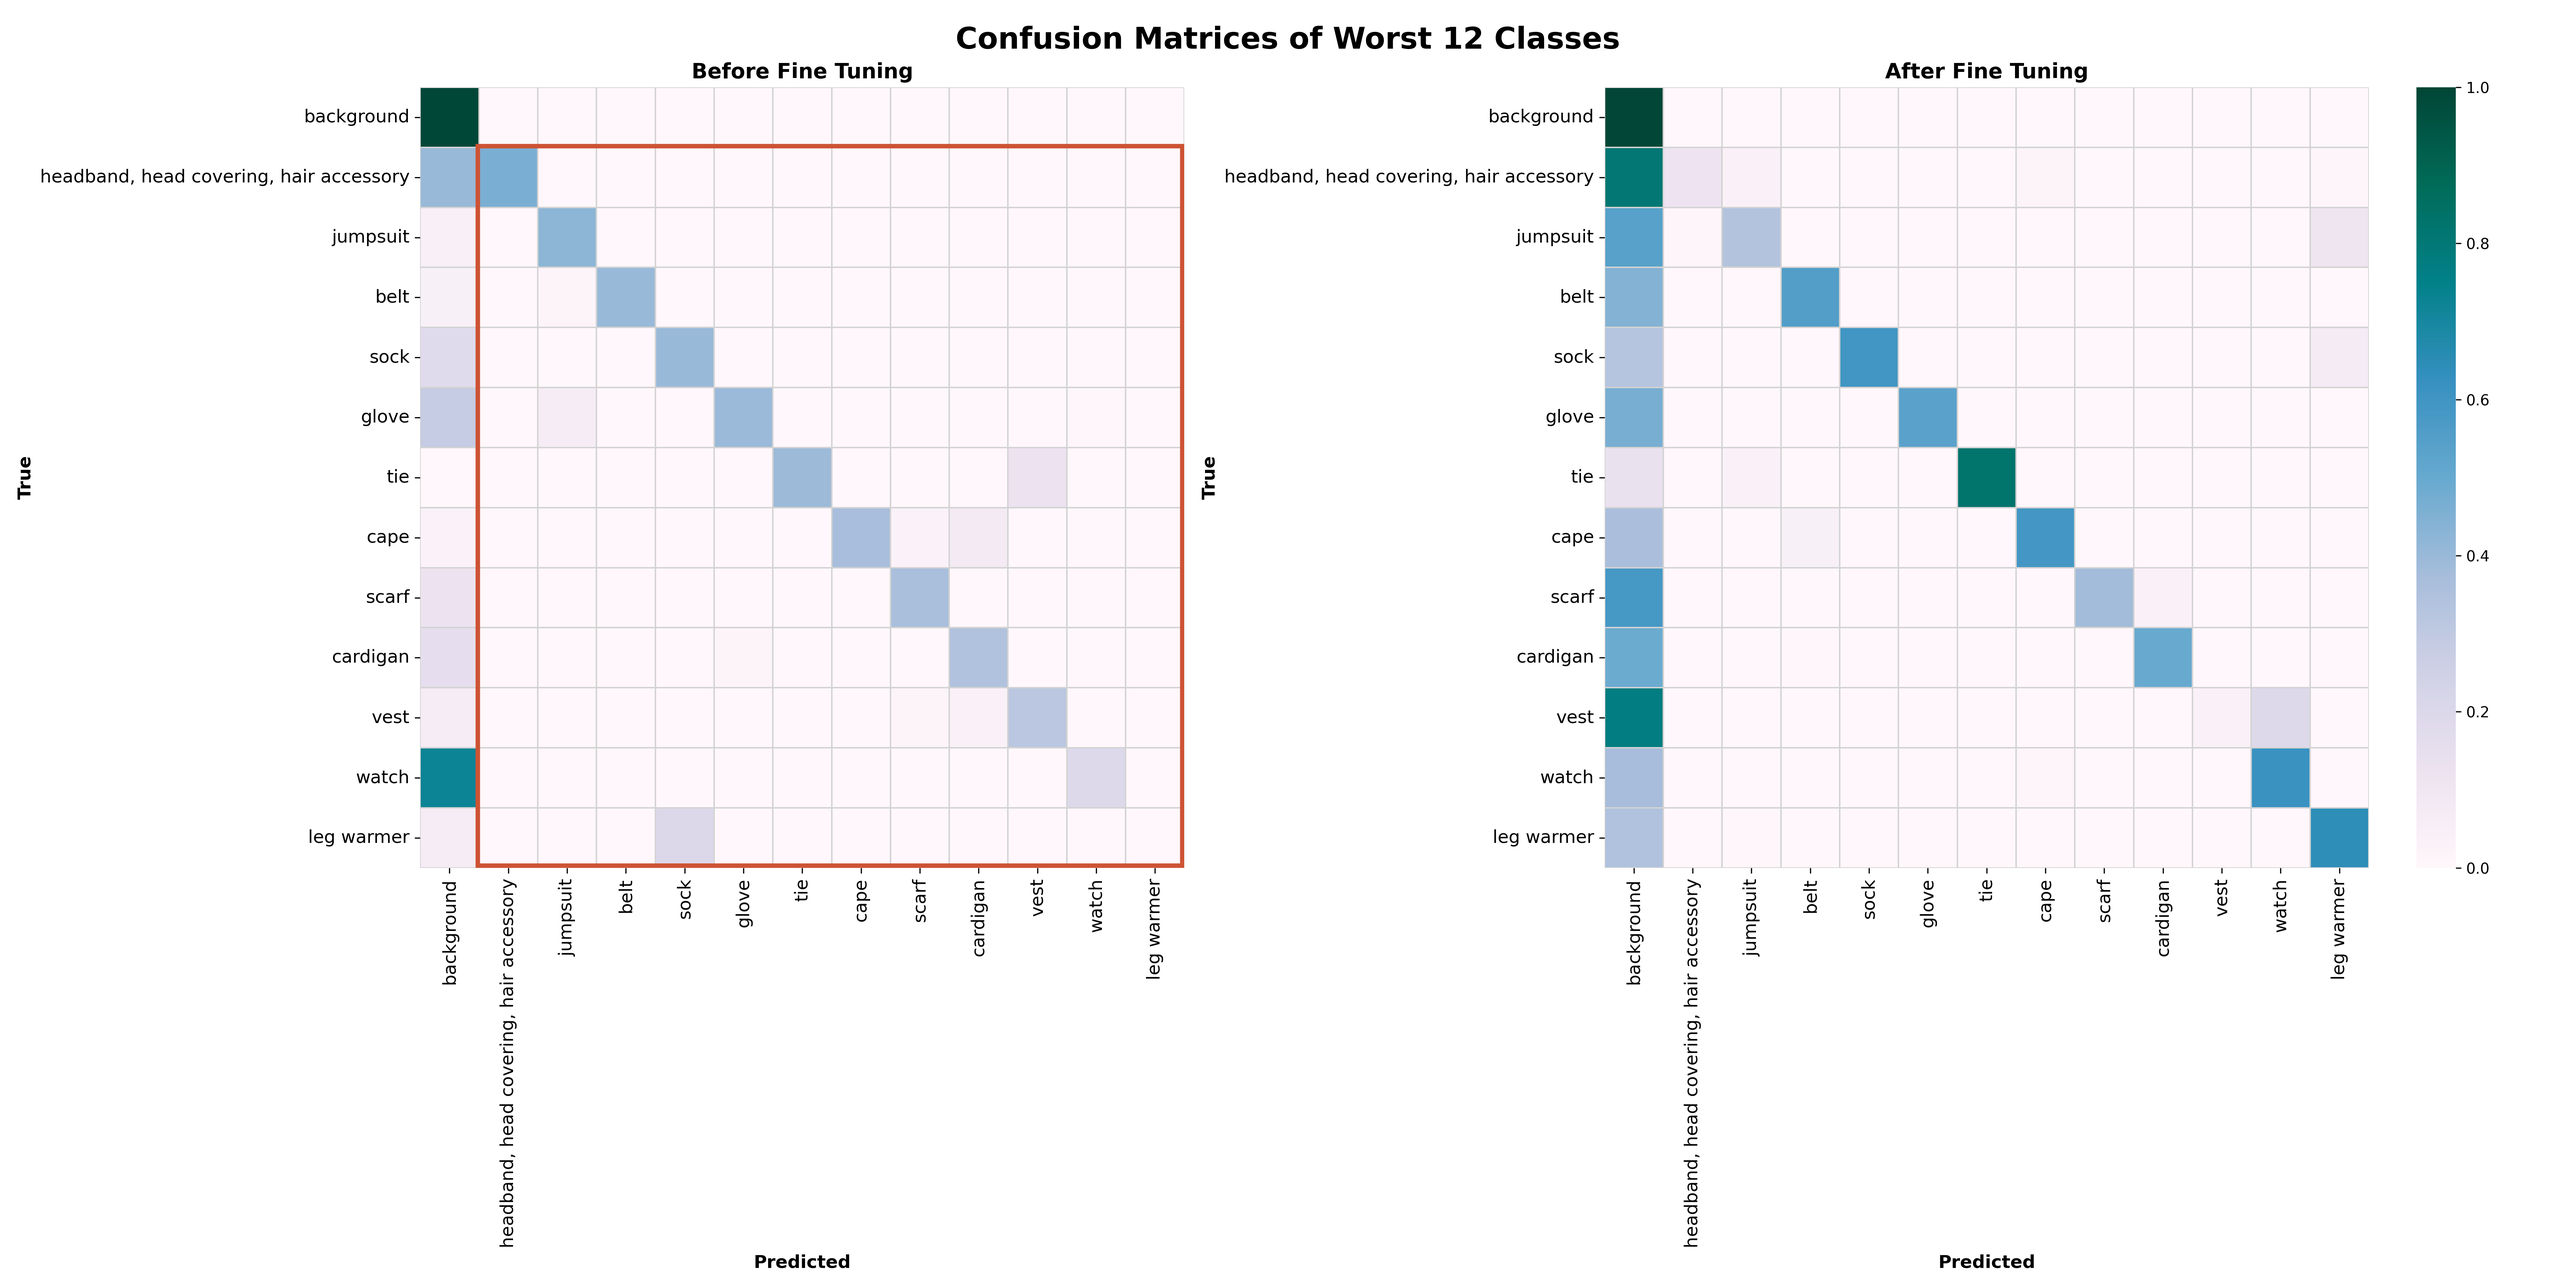
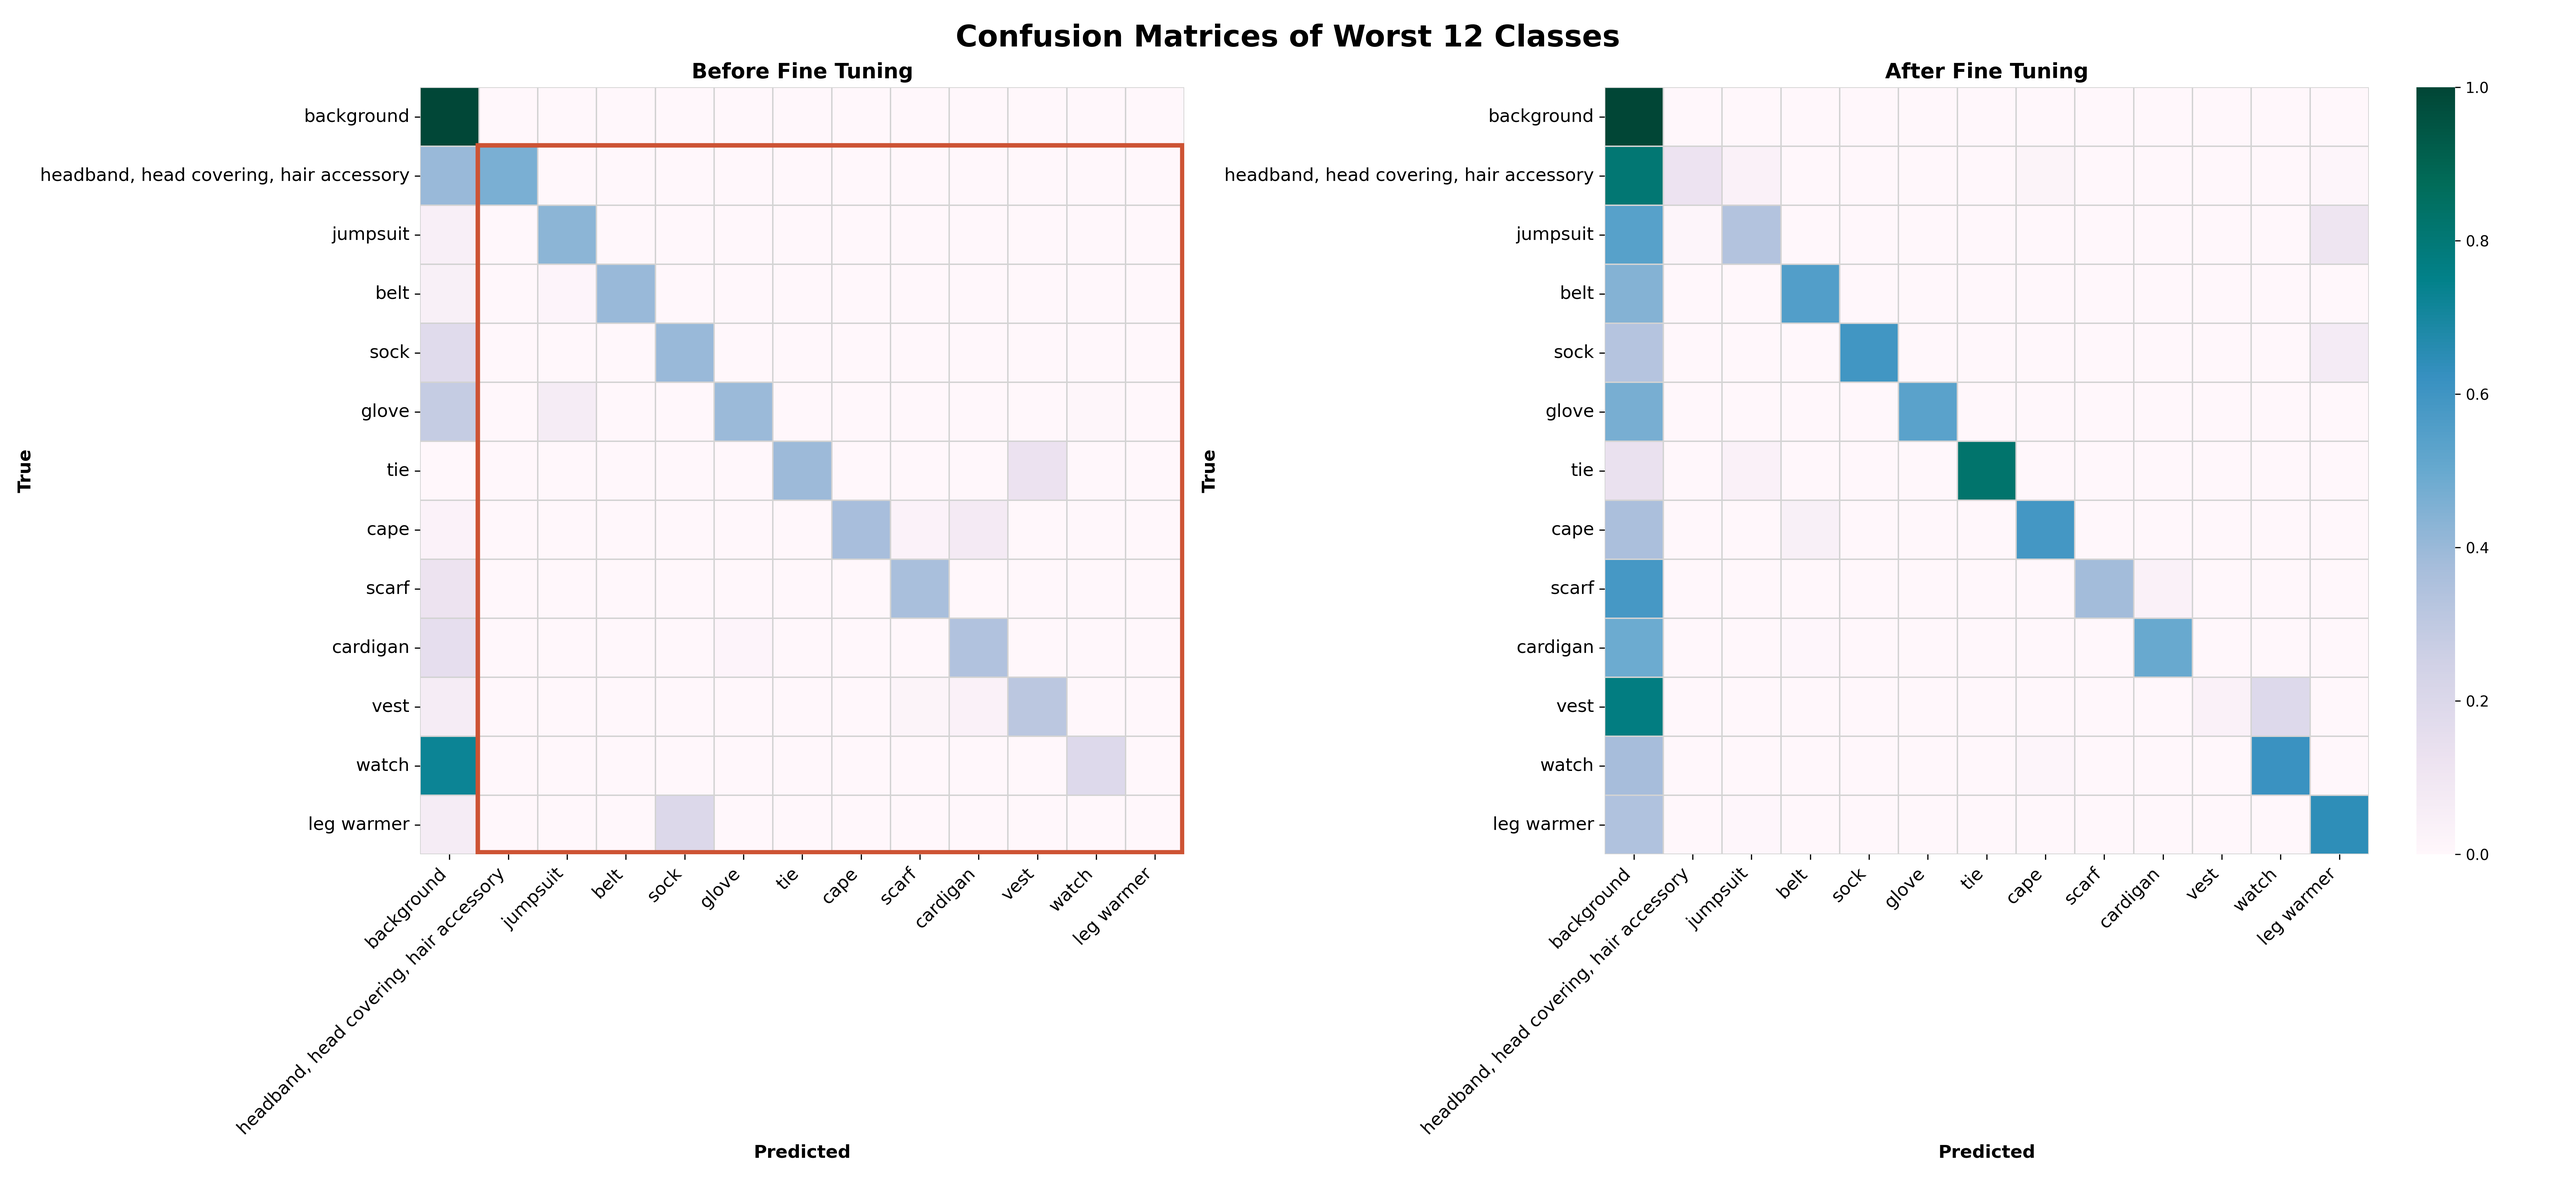
rotate xticks

diff --git a/practicals/p2/notebooks/results_analysis.py b/practicals/p2/notebooks/results_analysis.py
@@ -126,23 +126,24 @@ worst_12_labels = tp_sorted_labels[0:1] + tp_sorted_labels[-12:]
 worst_12_indices = np.argwhere(np.isin(tp_sorted_labels, worst_12_labels)).flatten()
 subset_cm = tp_sorted_cm.iloc[worst_12_indices, worst_12_indices]
 
-fig, axs = plt.subplots(1, 2, figsize=(24, 12), width_ratios=[1, 1.25])
+fig, axs = plt.subplots(1, 2, figsize=(24, 11), width_ratios=[1, 1.25])
 plot_confusion_matrix(
     axs[0], subset_cm, worst_12_labels, "Before Fine Tuning", cbar=False
 )
+axs[0].set_xticks(np.array(range(len(worst_12_labels))) + 0.5)
+axs[0].set_xticklabels(worst_12_labels, rotation=45, ha='right')
+
 axs[0].add_patch(
     plt.Rectangle((0.98, 0.98), 11.98, 11.98, fill=False, color="#CD5334", linewidth=3)
 )
 # TODO: replace this with the confusion matrix after fine tuning
-plot_confusion_matrix(
-    axs[1], fine_tuned_cm, worst_12_labels, "After Fine Tuning", cbar=True
-)
+plot_confusion_matrix(axs[1], fine_tuned_cm, worst_12_labels, "After Fine Tuning", cbar=True)
+axs[1].set_xticks(np.array(range(len(worst_12_labels))) + 0.5)  
+axs[1].set_xticklabels(worst_12_labels, rotation=45, ha="right")
 
 plt.suptitle("Confusion Matrices of Worst 12 Classes", fontsize=20, weight="bold")
 plt.tight_layout()
-plt.savefig(
-    FIGURES_DIR / "confusion_matrices_fine_tuning.png", dpi=300
-)
+plt.savefig(FIGURES_DIR / "confusion_matrices_fine_tuning.png", dpi=300)
 plt.show()
 
 # %%
